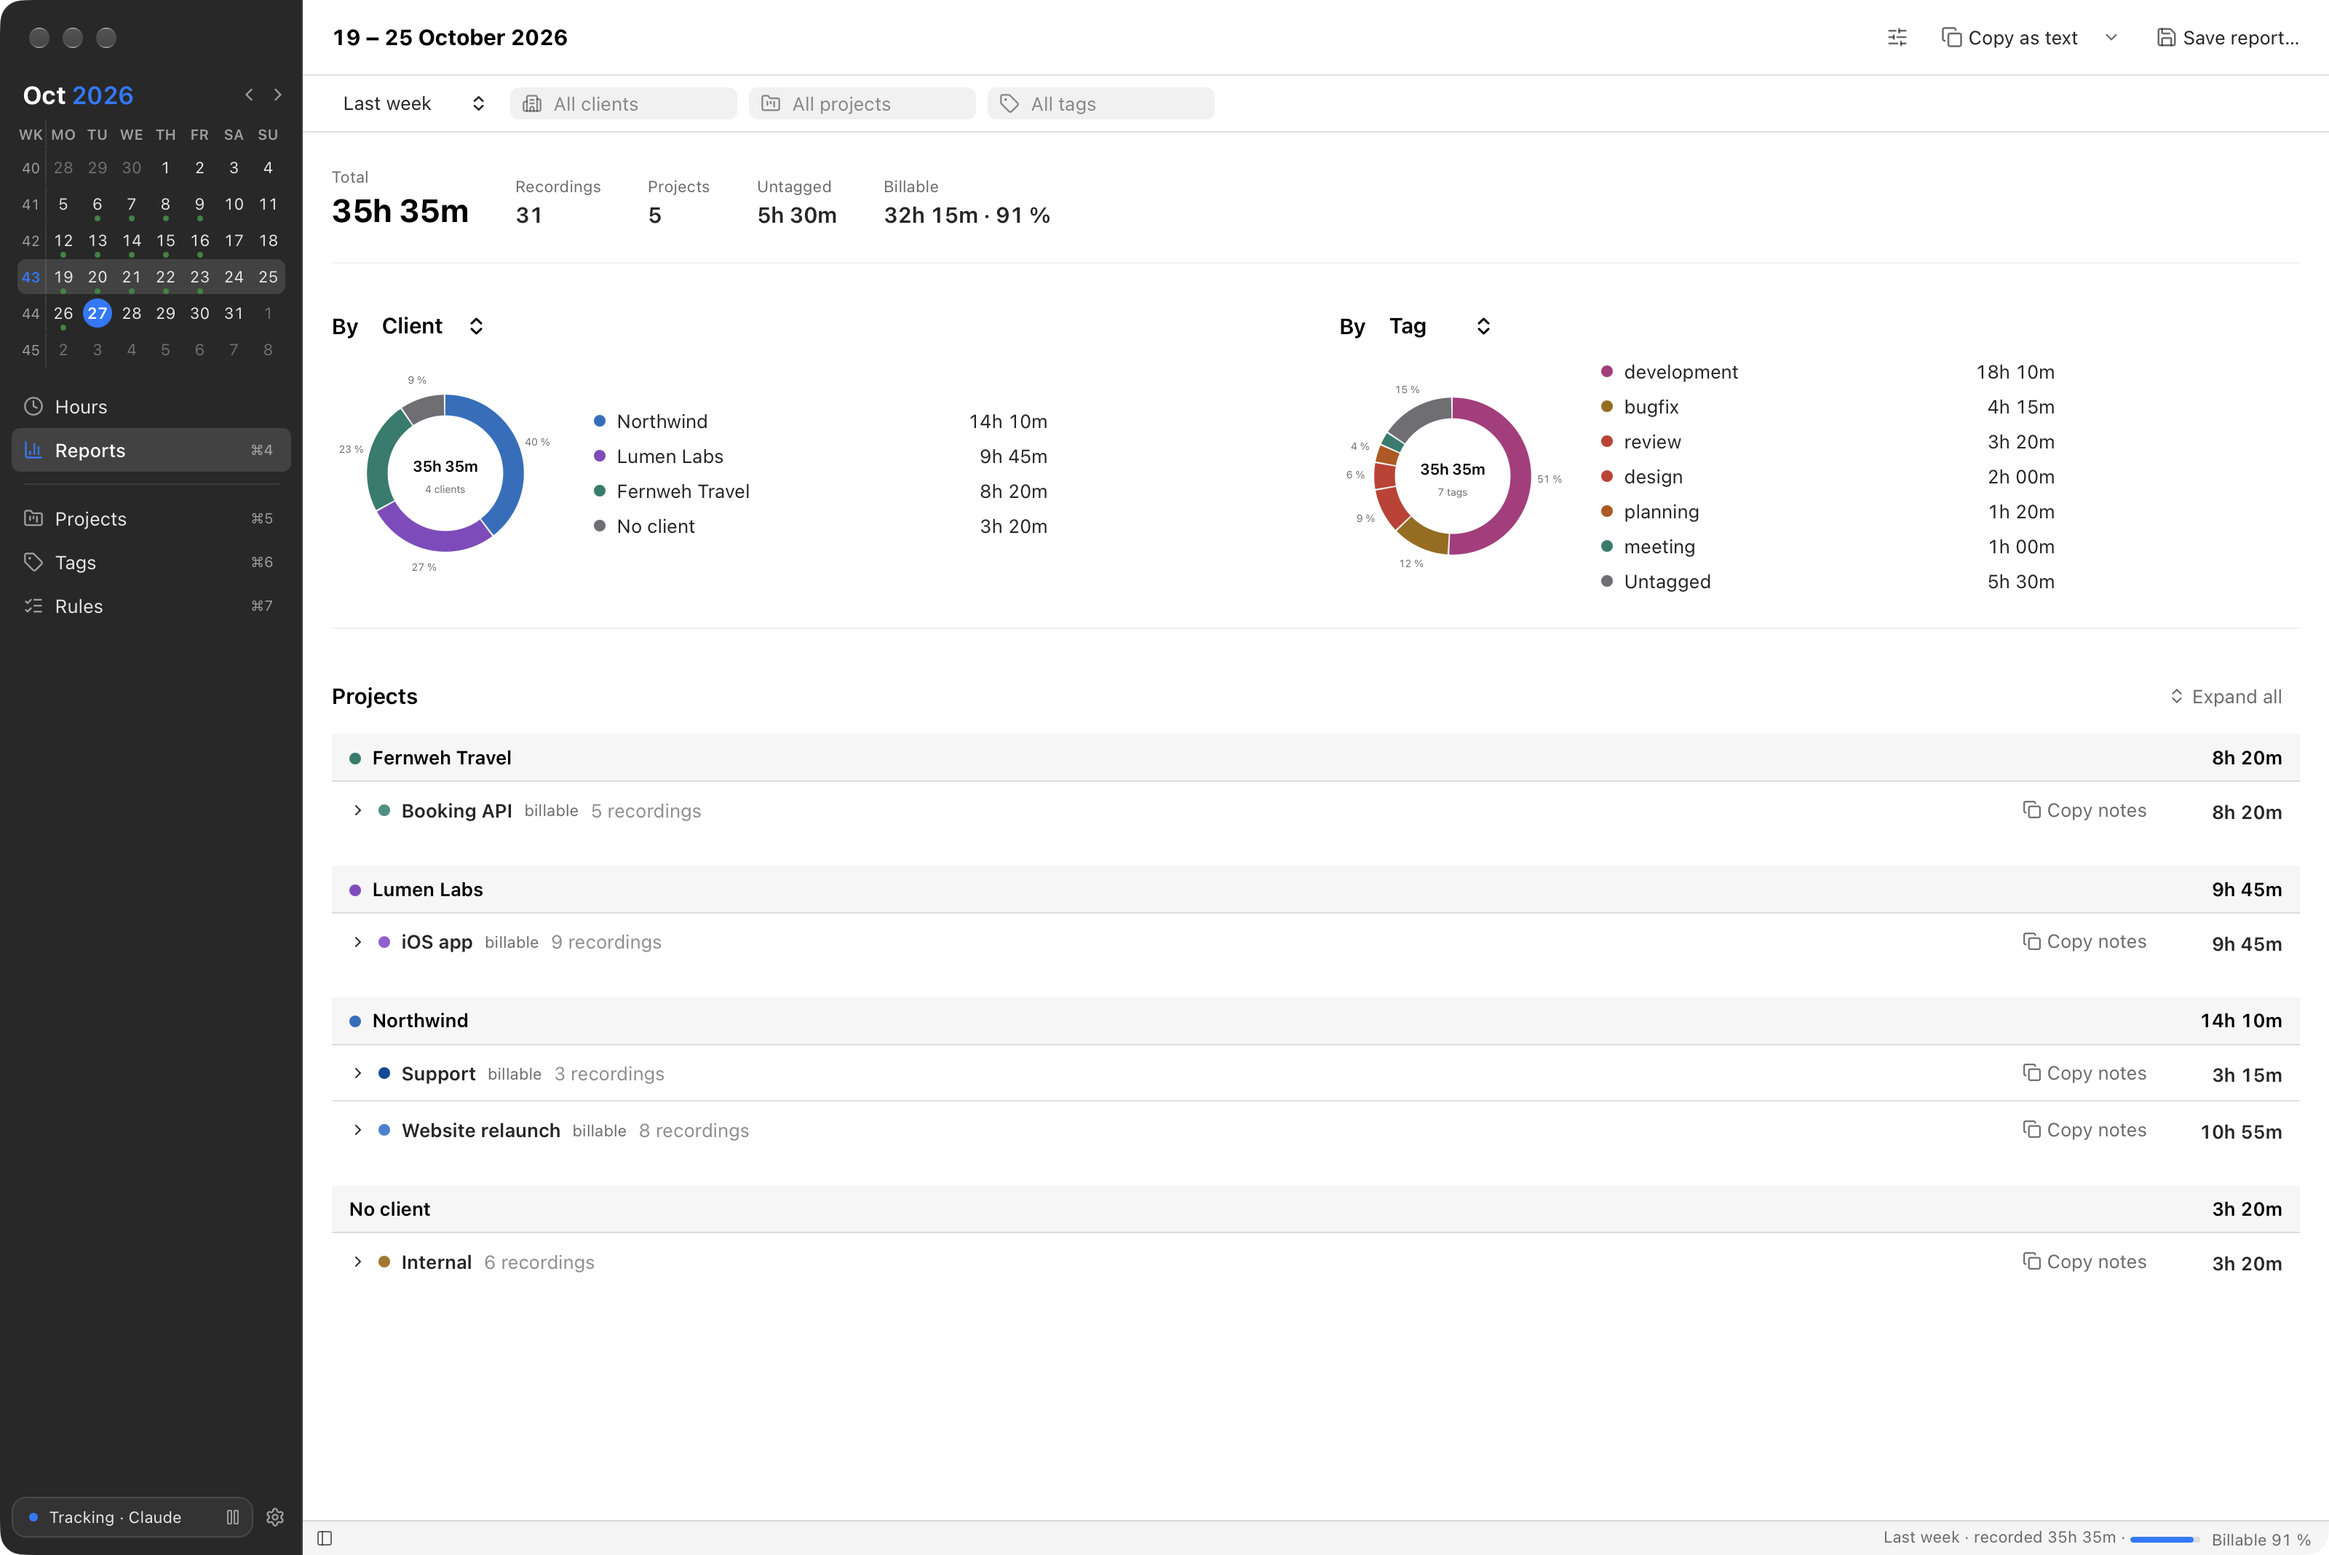
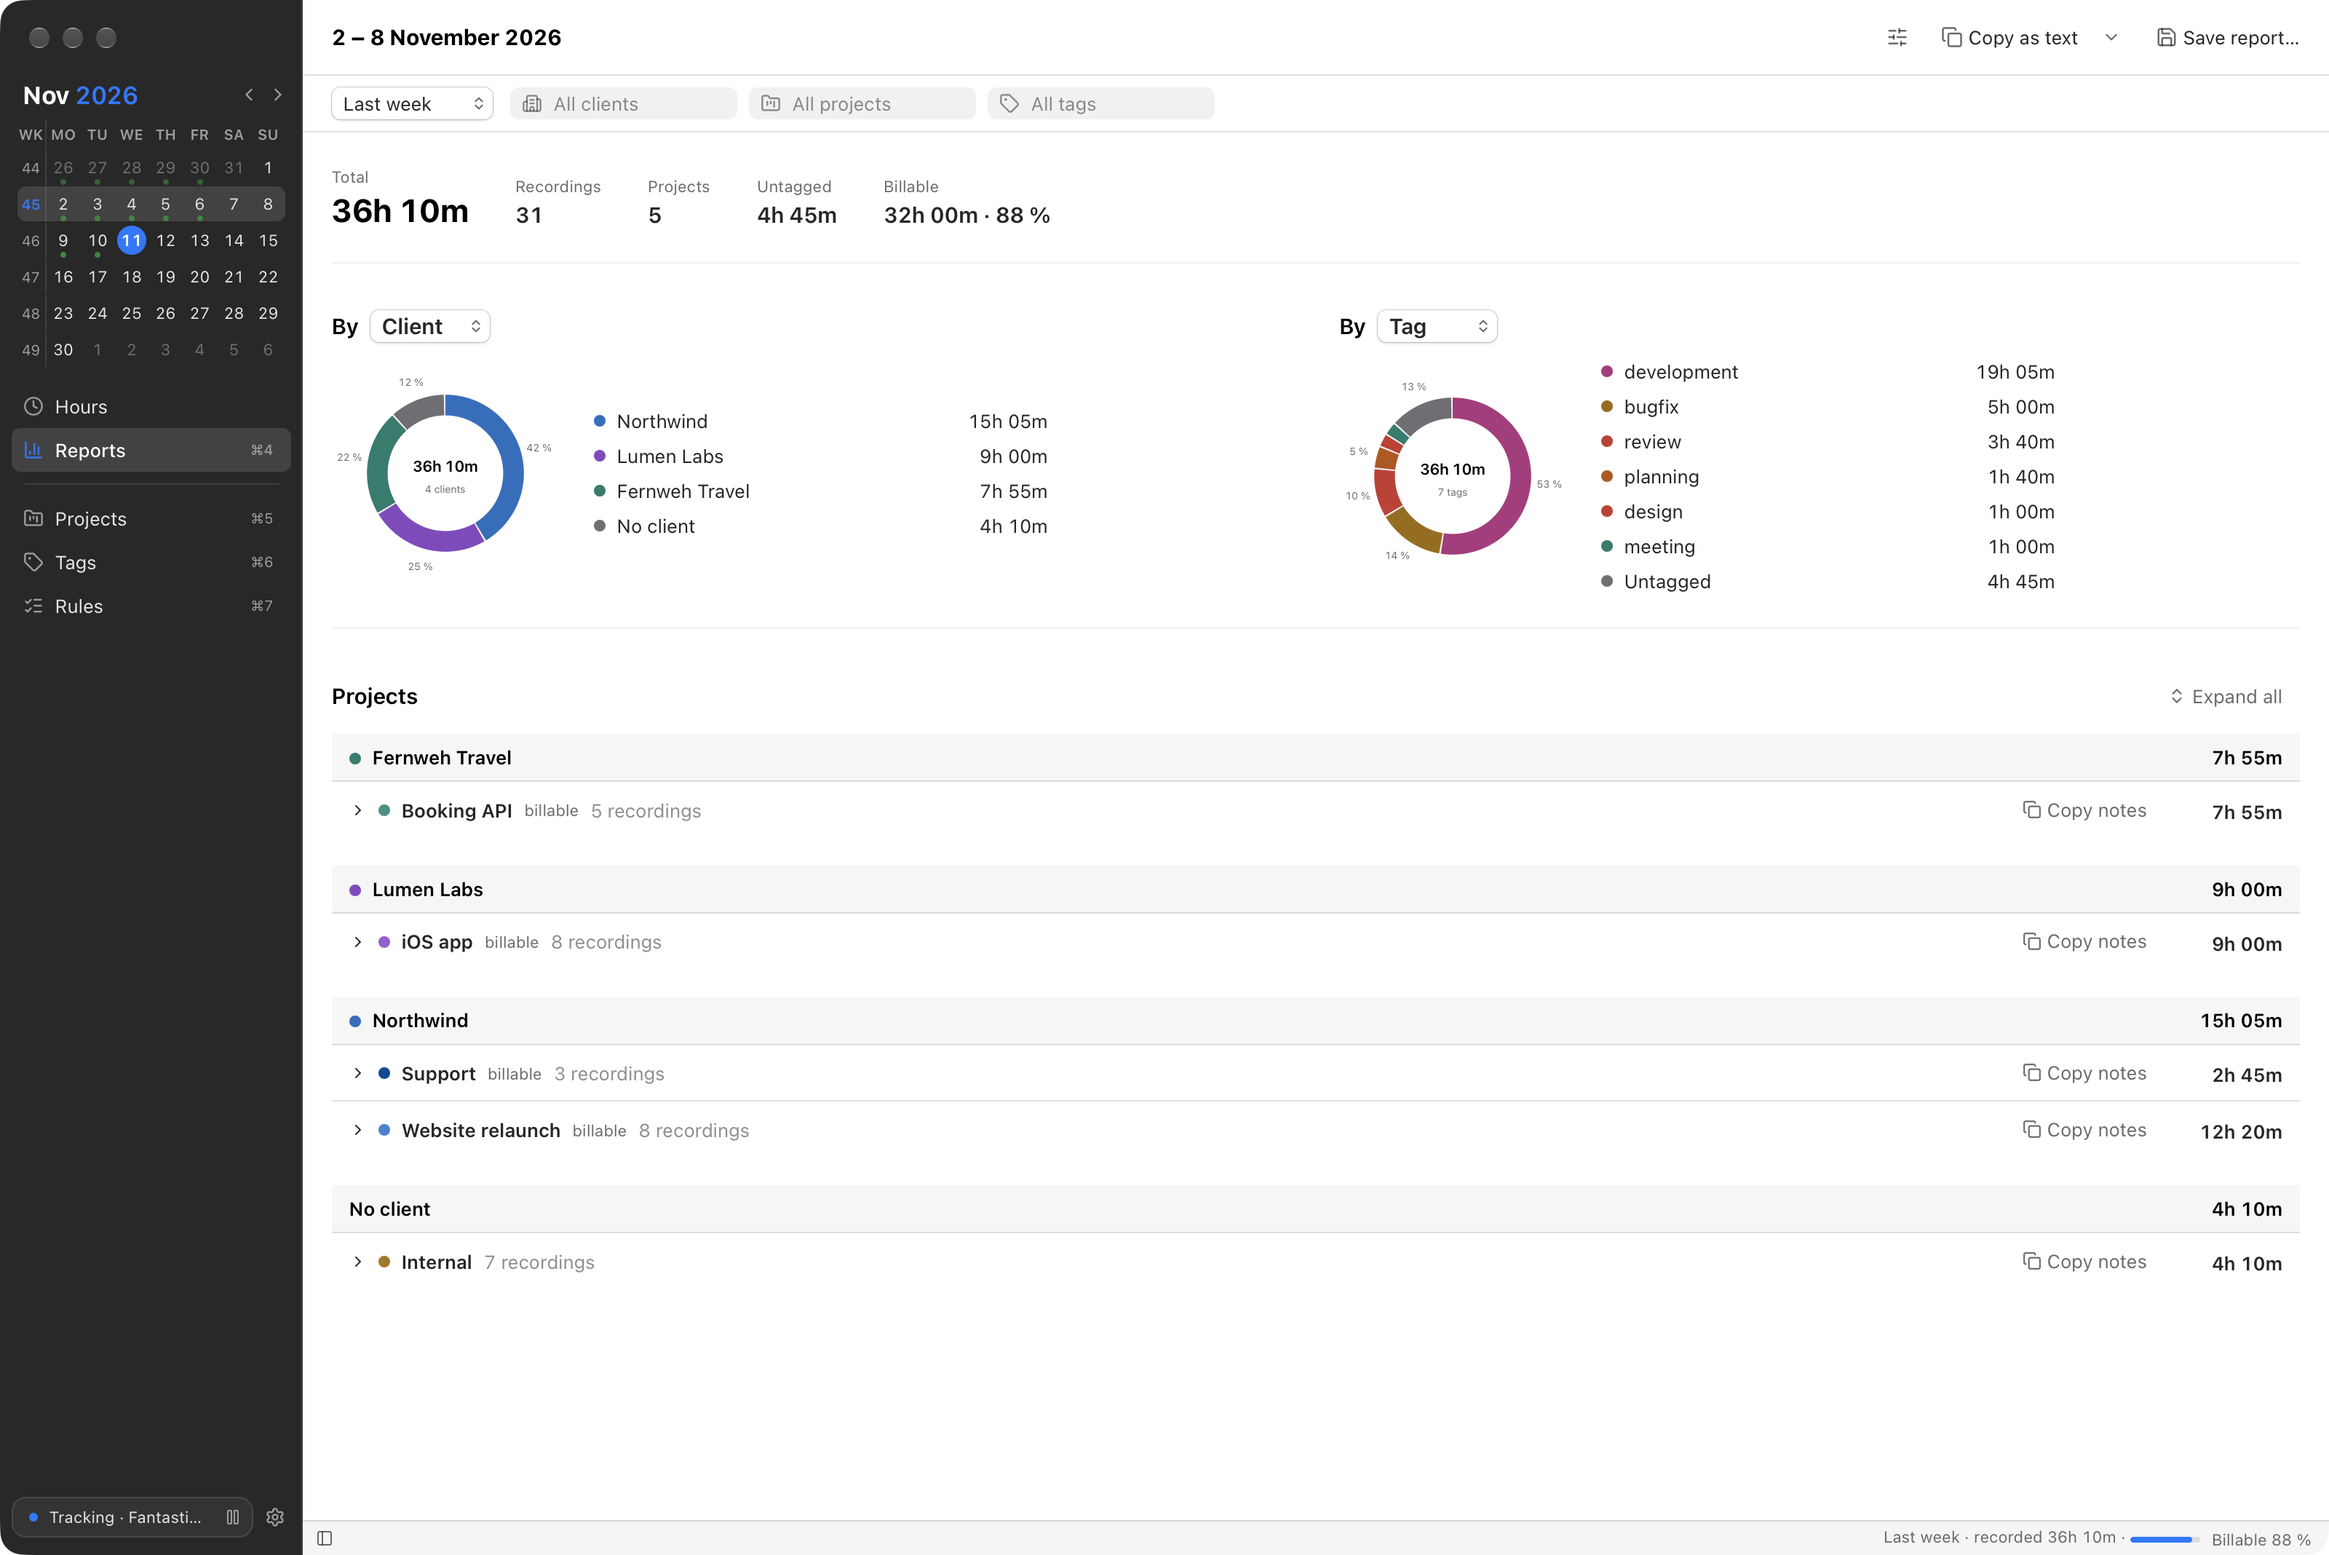
Refresh the README screenshots and text

diff --git a/README.md b/README.md
@@ -62,12 +62,14 @@ Browsers ask once each whether TimeTracker may read their address bar (Automatio
 - Drag over time or click activity (or J/K, V and ↵): the editor opens in the timesheet, snapped to the grid,
   for a one-line note, a project (often proposed), a tag and the spans. Each further click on a block adds its
   span or takes it out again, so scattered blocks make one recording with the time between them left out.
+  Changes in the editor, drags included, wait for Save; Cancel puts everything back. A suggested timer that
+  is still running is edited the same way, while it keeps running.
 - Recordings never overlap. Drag to move or resize, ⌘Z undoes; rules (⌥-drag a block onto a project) suggest
   recordings that wait in the timesheet as ghost cards until you approve, edit or dismiss them.
 - The sidebar opens with a month calendar that is the navigation: a click on a day shows that day, on a week
-  number that week, on the month's name that month; the shown day, week or month is highlighted and a dot
-  marks days with recordings. P, N and O step back, ahead and to today. Below it: Hours (today's Day view),
-  Reports, then Projects, Tags and Rules, and at the bottom the tracking status with play / pause and the
+  number that week, on the month's name that month (in Reports, that day, week or month becomes the report's
+  period); the shown day, week or month is highlighted and a dot marks days with recordings. P, N and O step
+  back, ahead and to today. Below it: Hours (today's Day view), Reports, then Projects, Tags and Rules, and at the bottom the tracking status with play / pause and the
   Settings gear (in the status bar while the sidebar is hidden, ⌘⌃S).
 - ⌘1 to ⌘7 switch to Day, Week, Month, Reports, Projects, Tags and Rules. Week and Month list the recordings
   per day (Week as cards, Month as one line each, Monday first); a card drags to another day.
@@ -268,8 +270,9 @@ Settings → Data shows the folder, its size and counts, with Reveal in Finder.
   forgot the grant for the new signature. Remove TimeTracker in System Settings → Privacy & Security →
   Accessibility, then click Allow… in the app (or the welcome sheet's Grant access) and turn it on again.
 - **"TimeTracker is not running" from the CLI** (exit 2). Only `show`, `focus` and a bare `timetracker`
-  start the app; `mcp` works without it. Run `timetracker` (or open the app), then repeat the command. Debug
-  and release builds share the socket, so the command reaches whichever one runs.
+  start the app; `mcp` works without it. Run `timetracker` (or open the app), then repeat the command. The
+  installed command reaches the release app only; a debug build has its own socket and data, so call its
+  binary by path.
 - **Launch at login stopped after moving or reinstalling the app.** The LaunchAgent records the app's path
   when it is turned on. Turn launch at login off and on again in Settings → General.
 - **"Data folder … not found; using the default"** on launch: the moved data folder is missing (an unmounted

diff --git a/docs/testing.md b/docs/testing.md
@@ -98,7 +98,7 @@ keep typing in the terminal. They are macOS-only (zsh, Swift, `screencapture`, a
 | `scripts/dev/screenshot.sh out.png [--overlay]` | captures the debug app's window, also in the background or on another Space; `--overlay` captures the open timer picker or away prompt. Never the release app; fails when no debug window exists |
 | `scripts/dev/e2e.sh [day]` | opens the Day view (default the last workday) in the running debug app, clicks View options and the first summary block twice each and fails on any drift of the main area, the toolbar, the first block or the clicked control (`.claude/rules/stable-controls.md`) |
 | `scripts/dev/screenshot-looks.sh <dir> [view]` | captures a view (default `day`) in each scheme of the current macOS mode as `<scheme>-<mode>-<view>.png`, then restores the settings; switch the system appearance and run it again for the other mode ([ux.md](ux.md#scheme-audit)) |
-| `scripts/dev/screenshot-readme.sh [dir]` | captures the README screenshots (`day.png`, `day-dark.png`, `reports.png`, default `docs/screens`): the Day view of the last workday in the Default and the Dark scheme and Reports for last week, then restores the settings, view and zoom. Run it on the showcase ([Sample data](#sample-data)) |
+| `scripts/dev/screenshot-readme.sh [dir]` | captures the README screenshots (`day.png`, `day-dark.png`, `reports.png`, default `docs/screens`): the Day view of the last workday in the Default and the Dark scheme and Reports for last week, then restores the settings, view and zoom. Run it on the showcase ([Sample data](#sample-data)), which covers the 15 workdays before the day it was seeded: when the debug data folder's showcase is older than yesterday, move that folder aside, launch, finish the welcome sheet (it shows the data folder's path, which must not be captured), capture, then move the folder back |
 | `bun run release major\|minor\|patch` | bumps the version (ADR 0043), builds the release `.app` and `.dmg` (`src-tauri/target/release/bundle/`), then re-signed and linked by `scripts/install.sh`; a `~/.local/bin/timetracker` that isn't its link stays unless `--replace-cli`; then commits "Release X.Y.Z", tags `vX.Y.Z` and runs `scripts/clean-build.sh`; a failed build restores the version |
 | `scripts/clean-build.sh` | removes the app's own debug artifacts (each test rebuild leaves a copy) and the incremental caches; compiled dependencies stay, so the next build takes about a minute. The dev profile keeps only line tables, dependencies no debug info (`src-tauri/Cargo.toml`), so `target/` stays small |
 
